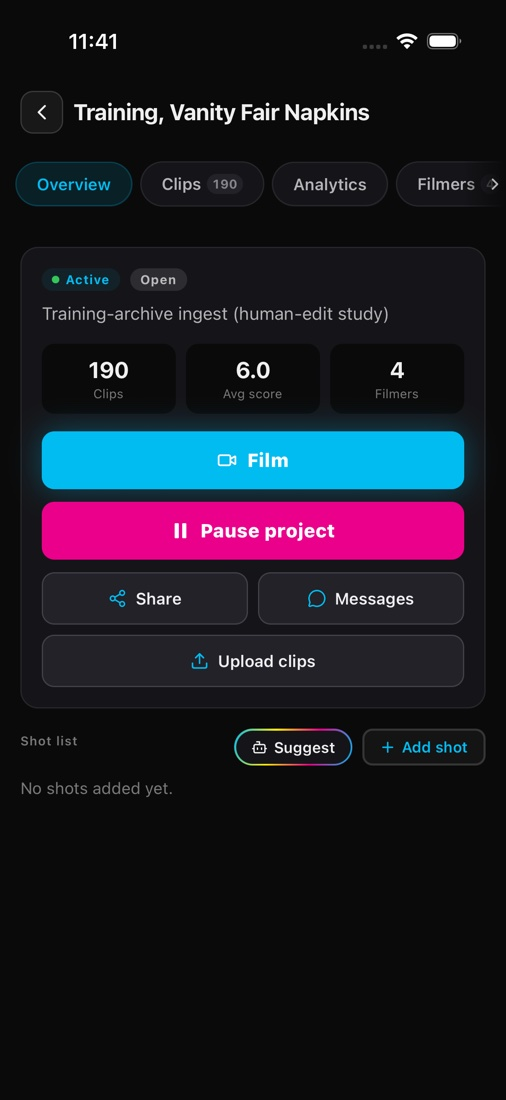
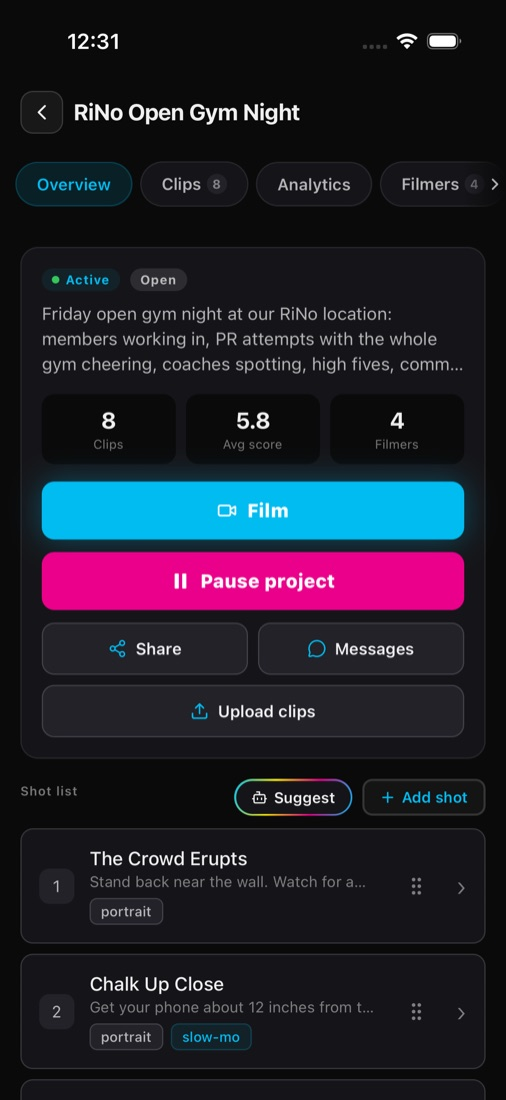
Tour re-captured from the Altitude Athletics demo org: real wizard projects, 28 reviewed clips, funded payouts, saved AI cuts, on-brand Idea Studio; app screens from the sim

diff --git a/DEMO-ORG-PLAN.md b/DEMO-ORG-PLAN.md
@@ -1,27 +1,42 @@
-# Demo Org — Next Session Brief (written Aug 22, ~1am)
+# Demo Org — Altitude Athletics (SEEDED Aug 22)
 
-**The mission:** build an incredible fake demo brand account on the Cinebody platform, fill EVERYTHING so it looks like an account genuinely in use, then re-capture every Platform-tour screenshot from it. Clean, on-brand, zero dev-org artifacts (no Grok QA clips, no "safe to delete" cuts, no $0 payouts, no Cinebody-meta idea cards).
+**Status: DONE.** The demo brand is live and every scriptable tour screenshot has been re-captured from it. What's left is Scott's camera work (below).
 
-**Scott's calls still open:**
-- Brand name + vibe (coffee/espresso brand suggested — the wizard capture already invented "Espresso Machine Launch"; he may want something else)
-- Footage: stock vertical UGC-style clips to seed (Pexels, free commercial) vs his own. Stock-first-replace-later was recommended.
-- **Scott does the camera captures himself** (real phone, real filming) — leave the AI Director / capture / interview phone shots to him. Everything else is scriptable.
+## The brand
+**Altitude Athletics** — Denver strength & conditioning studio, "Train higher." Two locations (RiNo + Wash Park). Colors: Ignition Orange #FF5A2D / Carbon #14181D / Bone #EFEAE3. Logo (twin peaks + elevation ticks) lives in R2, mark-only icon set as org logo.
 
-**Seed checklist (everything filled):**
-1. New org + membership for scott@cinebody.com (org switcher in app + web).
-2. Brand Kit: logo, 3 brand colors, voice & tone, audience, filming rules, brand profile page COMPLETE (use "Fetch brand" if we give the brand a one-page site, else hand-fill).
-3. 3-4 projects via the REAL wizard (so shot lists are genuinely AI-generated): e.g. product launch, customer stories (interview mode ON, pink), event/café tour, always-on social. Payout amounts configured so the filmer link shows money.
-4. Footage: ~20-30 vertical clips uploaded through the filmer link with **spoofed browser geolocation** (Playwright context geolocation, scatter coords across Denver + a few national) so the Map fills with pins. Fallback: set clip lat/lng via service role. Sim path: `xcrun simctl location <udid> set <lat,lon>`.
-5. Let AI Clip Review score everything (real scores, mixed results look honest).
-6. Post Production: build 1-2 cuts with real briefs; name them properly (no "safe to delete").
-7. Messages: a believable filmer thread + a Direction sent (notifications story).
-8. Idea Studio: deal ideas under the demo brand (fixes the meta-Cinebody card).
-9. Payouts: as much as fake-able without real Stripe money — filmers connected, amounts pending; check what renders without live funding.
-10. Re-run captures → `site/public/app-ui/live/` → tour updates automatically (same filenames).
+- **Org id:** `3615081c-c5c3-4ae5-9a5c-b23e17f850cc` (scott@cinebody.com is admin; switch orgs from the sidebar)
+- Brand Kit fully filled: profile, voice, audience, filming rules, colors, logo.
 
-**Tooling already proven (this session):**
-- Web captures: Playwright scripts `capture*.mjs` in the session scratchpad — login scott@cinebody.com / Cinebody2026! on localhost:3001 (`npx next dev -p 3001` in apps/web). Use `channel: 'chrome'` for anything with video (headless chromium lacks codecs).
-- App captures: real simulator (iPhone 17 Pro, UDID 0C677330-B817-44A5-A8D1-089020D77CC0) + dev-client build from DerivedData + Metro on :8082 + **Appium/XCUITest** driving taps by testID (`~tab-projects`, `~shoot-film`, `~camera-record`, `project-row-{id}`). NEVER computer-use. Gotcha: `expo start` needs app.json runtimeVersion temporarily set to "1.0.0" (bare workflow) — REVERT after.
-- Post-prod editor URL: `/dashboard/post-production?project={id}`. Wizard: `/dashboard/new` (4 steps; shots generate on step 2).
+## What's in it
+- **4 projects via the REAL wizard** (shot lists genuinely AI-generated):
+  - Fall Strength Block Launch (Open, flat $150/filmer, funded) `c2e1eaa3`
+  - Member Stories (Guided, 2 interview shots, flat $75, deliberately NOT funded — payouts page shows the "Fund" nudge) `abf87fa5`
+  - RiNo Open Gym Night (Open, $40/clip bounty, funded) `96954a11`
+  - Always-On Social (Open, $25/clip bounty, funded) `2effa45d`
+- **28 stock clips** (Pexels, free commercial) uploaded through the real filmer APIs → R2 → Mux → prod webhook ran real AI review + thumbnails. Every clip geotagged (Denver spread + Boulder/Austin/Santa Monica) so maps fill.
+- **Reviews curated** to an honest-healthy spread: 10 great / 12 good / 4 redo (kept the genuine strict reviews) / 2 rejected.
+- **10 filmer personas** with profiles; 6 marked Stripe-connected. 17 transactions ($75–$225 lifetime each), mix of available/pending → Payouts page shows $200 pending approval, $3,750 funded remaining.
+- **2 real AI rough cuts** saved: "Open Gym Night Recap" (Reels 30s), "Fall Block Launch Teaser" (TikTok 27s).
+- **Messages:** believable Chris Delgado thread on Open Gym Night + a targeted Direction + a broadcast Direction on Launch.
+- **Idea Studio:** 6 real AI-generated on-brand ideas ("Last Rep at 5,280", "Coach, One Cue"...).
 
-**Platform bugs found en route (for a platform session, not this one):** Sploot saved cuts crash the editor; regrade-stuck-clips cron 930 errors/90d; PEXELS_API_KEY missing on Vercel (cover fallback dead). Cover generation itself was fixed + shipped (564fcd0).
+## Captures (all same filenames, site untouched)
+- All 12 referenced desk-*.jpg re-captured (1800px), plus phone-filmer.jpg and the unreferenced extras.
+- App shots via sim + Appium: app-pulse, app-projects, app-project, app-library.
+- Verified rendering on /platform in Chrome — no broken images.
+
+## Left for Scott (real phone, real filming)
+- **app-camera-2.jpg** (shot brief over live camera) and **app-hud-idle.jpg** (live checks HUD) — open the app, switch to Altitude Athletics, film in RiNo Open Gym Night.
+- Interview capture shots if wanted (Member Stories has 2 interview shots configured).
+- Filmer links for phone testing (append token path to prod or LAN dev URL):
[3 lines of base64/hex data omitted]
+- Optional later: replace stock clips with real Altitude-style footage (stock-first-replace-later was the call).
+
+## Notes
+- Web captures ran on localhost:3001 (`npx next dev -p 3001` in apps/web), login scott@cinebody.com / Cinebody2026!, then POST /api/org/switch — every fresh Playwright profile MUST switch or you're in the dev Cinebody org.
+- Sim recipe: Metro `npx expo start --dev-client --port 8082` (app.json runtimeVersion temporarily "1.0.0", REVERTED after), Appium started with cwd = the scratchpad that has appium-xcuitest-driver in node_modules (home autodetects from cwd).
+- Scott's personal filmer card on Pulse still shows his dev filmer stats (relinking his user row was out of bounds); it appears in desk-pulse.jpg like it did before.
+- Old bug from last session: PEXELS_API_KEY still missing on Vercel; clips were scraped via headed Chrome instead (Cloudflare blocks headless).
